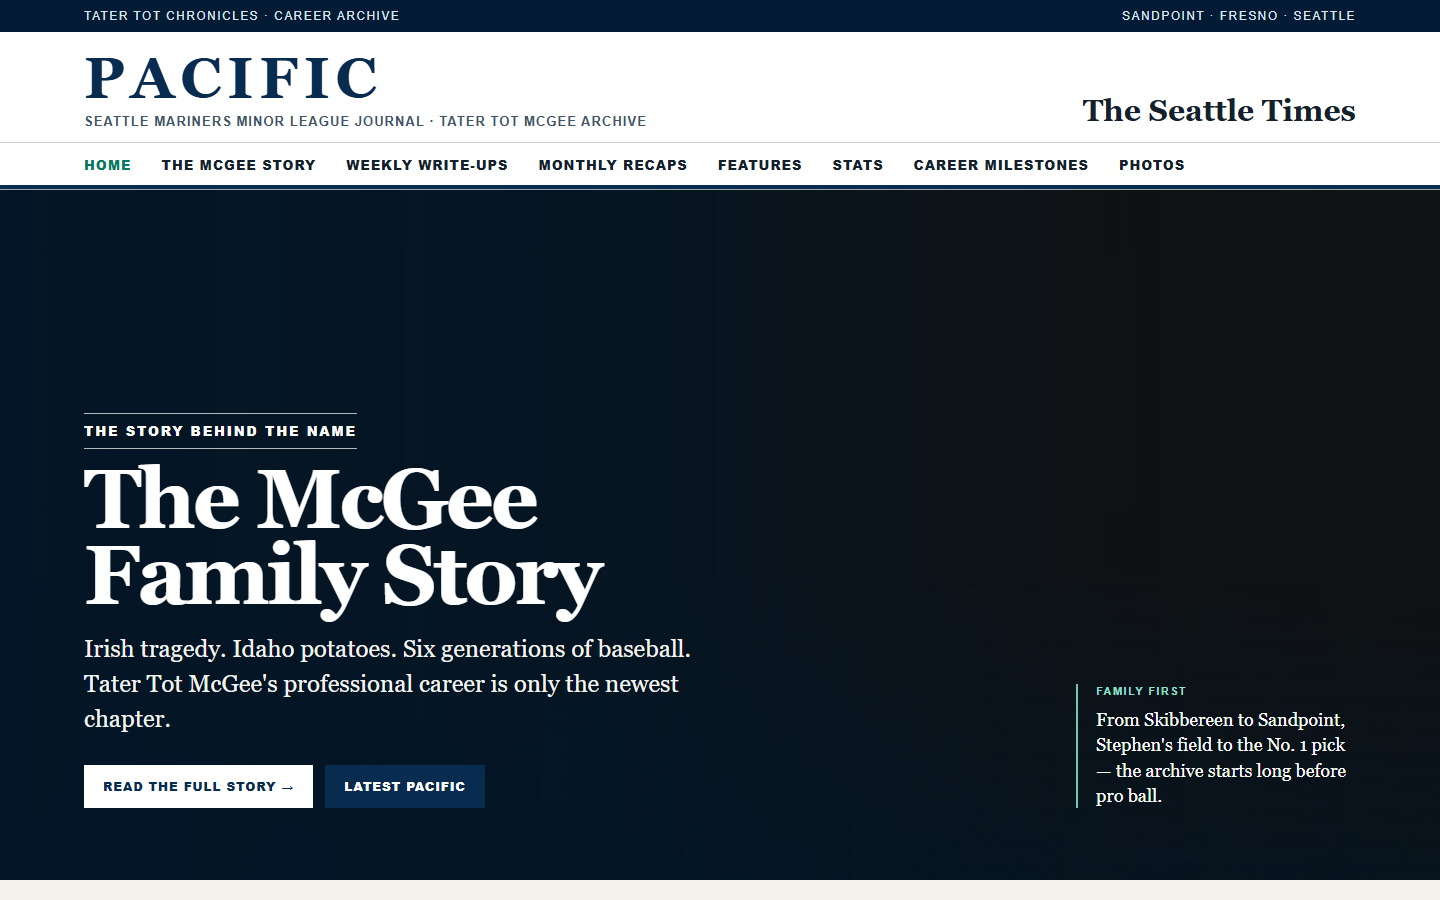
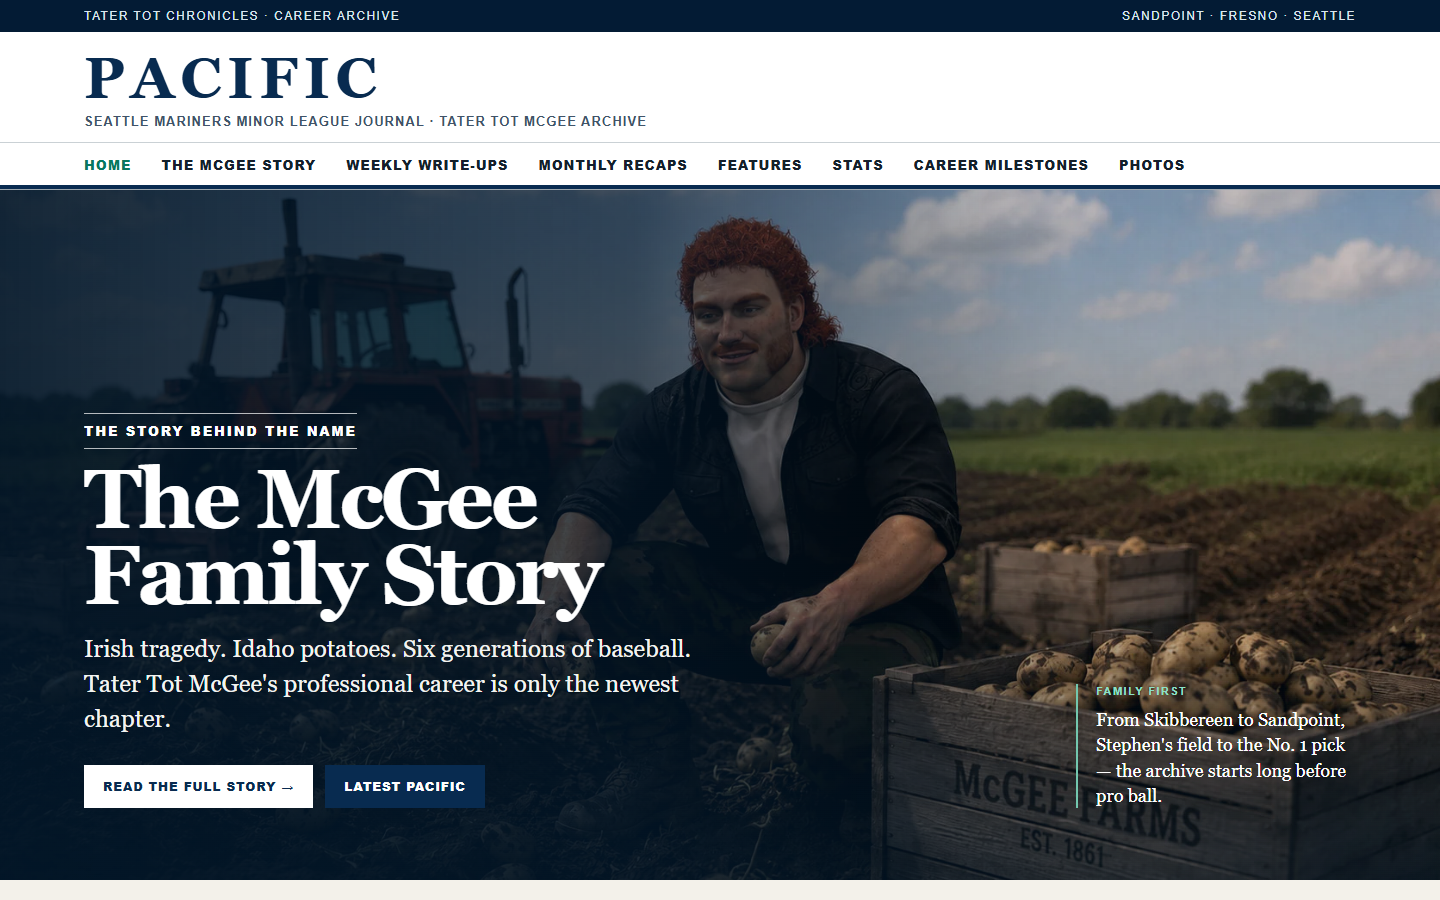
changed pacific hime page branding

diff --git a/index.html b/index.html
@@ -16,10 +16,9 @@ a{color:inherit}
 .topbar{background:var(--navy2);color:#dbe7ee;font-size:12px;letter-spacing:.12em;text-transform:uppercase}
 .topbar .inner{max-width:1320px;margin:auto;padding:9px 24px;display:flex;justify-content:space-between;gap:20px}
 .masthead{background:white;border-bottom:1px solid #9ca6ad}
-.mast-inner{max-width:1320px;margin:auto;padding:20px 24px 14px;display:grid;grid-template-columns:1fr auto;align-items:end;gap:20px}
+.mast-inner{max-width:1320px;margin:auto;padding:20px 24px 14px;display:grid;grid-template-columns:1fr;align-items:end;gap:20px}
 .brand{font-family:Georgia,'Times New Roman',serif;font-size:58px;line-height:.9;letter-spacing:.1em;color:var(--navy);font-weight:700}
 .brand small{display:block;font-family:Arial,sans-serif;font-size:13px;letter-spacing:.08em;text-transform:uppercase;margin-top:12px;font-weight:600;color:#405369}
-.times{font-family:Georgia,'Times New Roman',serif;font-size:30px;font-weight:700}
 .nav{border-top:1px solid #cad1d5;border-bottom:4px solid var(--navy);background:#fff}
 .nav .inner{max-width:1320px;margin:auto;display:flex;gap:30px;padding:0 24px;overflow-x:auto}
 .nav a{padding:13px 0 11px;text-decoration:none;text-transform:uppercase;font-weight:800;font-size:13px;letter-spacing:.08em;white-space:nowrap;border-bottom:4px solid transparent;margin-bottom:-4px}
@@ -36,7 +35,7 @@ a{color:inherit}
 footer{background:var(--navy2);color:#dbe5ec;padding:30px 0;margin-top:50px}
 footer .inner{max-width:1320px;margin:auto;padding:0 24px;display:flex;justify-content:space-between;gap:20px;flex-wrap:wrap;font-size:12px}
 @media(max-width:760px){
-  .mast-inner{grid-template-columns:1fr}.times{font-size:22px}.brand{font-size:42px}
+  .mast-inner{grid-template-columns:1fr}.brand{font-size:42px}
   .section{padding:40px 0}.section-title{font-size:34px}
 }
 
@@ -123,7 +122,6 @@ footer .inner{max-width:1320px;margin:auto;padding:0 24px;display:flex;justify-c
 <header class="masthead">
   <div class="mast-inner">
     <div class="brand">PACIFIC<small>Seattle Mariners Minor League Journal · Tater Tot McGee Archive</small></div>
-    <div class="times">The Seattle Times</div>
   </div>
   <nav class="nav"><div class="inner">
     <a class="active" href="index.html">Home</a>
